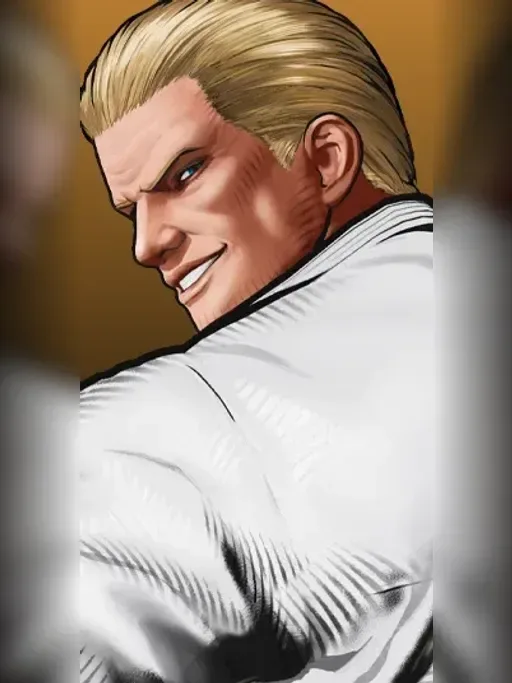
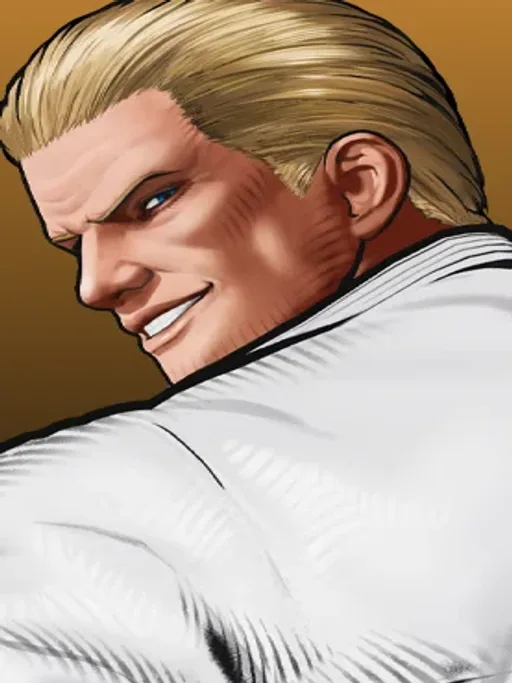
Fill the roster tile by stretching, not by banding it
The mirrored blur bands read as a smear at any width that bought real
content, so they are gone. The extra tile is now absorbed by stretching
the crop to the full width instead.

Showing more than 3:4 of a 277x721 source in a hard 3:4 box leaves only
two options: add width, or absorb it. Both were built. Bands lost on
looks and on arithmetic — at GRID_ZOOM 1.45 the banded artwork occupied
just 69% of the tile's width, so the fighter rendered SMALLER than they
now do stretched at 1.25, while also carrying two blurred edges. Plain
edge replication (no mirror) turns every row into a horizontal streak,
and an anamorphic split with the centre held 1:1 visibly warps the
outer fifths.

The stretch has one clean property worth knowing: the crop is
(w / 0.75) * GRID_ZOOM rows tall, so the subject is exactly
OUT_W / GRID_ZOOM wide before the stretch, which makes the horizontal
stretch factor exactly GRID_ZOOM. One dial buys chest and costs face
shape at the same rate. 1.25 keeps faces reading as faces without a
side-by-side reference; the artwork's own ceiling is still 1.58.

Portraits stay 512x683 and the hero is untouched. e2e 40/40,
verify:gates 30/30.

diff --git a/scripts/art.ts b/scripts/art.ts
@@ -150,11 +150,13 @@ const finish = async (out: string, webp: Buffer, extra: Omit<Written, 'bytes' | 
  * reasoning is written out rather than assumed.
  */
 
-/** Extra tile beyond a bare 3:4, as a multiple. 3:4 of SNK's 277-wide roster
- *  tile is its top 369 rows, which on most of the roster is a face close-up;
- *  1.25 takes 461 rows and reaches the chest. The rows past 3:4 are filled by
- *  the blurred backdrop below rather than by cropping tighter. */
-const GRID_ZOOM = 1.45;
+/** Extra tile beyond a bare 3:4, as a multiple — AND, because of the geometry
+ *  in savePortrait below, the horizontal stretch factor. 3:4 of SNK's 277-wide
+ *  roster tile is its top 369 rows, which on most of the roster is a face
+ *  close-up; 1.25 takes 461 rows and reaches the chest at 25% horizontal
+ *  stretch. Raising it buys chest and costs face shape at exactly the same
+ *  rate. Hard ceiling 1.58, set by where the artwork itself ends. */
+const GRID_ZOOM = 1.25;
 
 /** The desktop hero box, 1440×340. The splash canvas is exactly 2× it, so the
  *  ratio matches to the digit and `object-cover` crops NOTHING at desktop —
@@ -273,28 +275,31 @@ async function opaqueBox(
 }
 
 /**
- * THE PORTRAIT IS A 3:4 TILE THAT SHOWS MORE THAN 3:4 OF THE SOURCE.
+ * THE PORTRAIT SHOWS MORE THAN 3:4 OF THE SOURCE, AND ABSORBS IT BY STRETCHING.
  *
  * SNK's roster tiles are 277×721 (ratio 0.384). A bare top-anchored 3:4 crop is
  * their top 369 rows, and on most of the roster that is a face close-up —
- * correct framing, too tight. Taking 461 rows instead reaches the chest, but a
- * 277×461 crop is 0.60, not 0.75, so the sides have to be filled.
+ * correctly framed, too tight. Showing more rows means the crop is no longer
+ * 3:4, and the engine's tile is a hard `aspect-[3/4] object-cover` box with no
+ * object-position and no config, so the extra has to go somewhere.
  *
- * The fill is a MIRROR of the subject's own outer edge, blurred, fading into
- * the page background. Mirroring is what makes it seamless: the band's inner
- * pixel column IS the subject's edge column, so the two meet exactly, and the
- * darkening ramp starts at zero there so the brightness matches too. The blur
- * then removes any readable doubled anatomy, leaving a soft vignette.
+ * There are only two places it can go: ADD WIDTH (bands down each side) or
+ * ABSORB IT (stretch horizontally). Bands were built first — mirrored from the
+ * subject's own edge, blurred, faded — and rejected on sight: at any width that
+ * buys real content they read as a smear, and they cost the subject the tile.
+ * At GRID_ZOOM 1.45 the banded artwork occupied only 69% of the tile's width,
+ * so the fighter actually rendered SMALLER than they do stretched at 1.25.
+ * Plain edge replication (no mirror) was also tried and is worse — every row
+ * becomes a horizontal streak. An anamorphic split, centre 1:1 with the outer
+ * fifths absorbing the stretch, visibly warps the edges.
  *
- * A cover-scaled blur of the whole tile was tried first and is WRONG — cover
- * rescales the image, so the band and the subject no longer share a scale and
- * the seam reads as a smear. Sampling a solid background colour is also wrong
- * here: measured, the tile edges are neither flat nor consistent (per-column
- * σ 25–87 across the roster), because on a bust crop the fighter's own
- * shoulders reach the frame.
- *
- * The backdrop is flattened onto the page background first: the tiles carry
- * 10–16% transparent pixels, and holes in a roster tile read as damage.
+ * So the subject is stretched to the full tile width, and the arithmetic is
+ * unusually clean: the crop is `(w / 0.75) × GRID_ZOOM` rows tall, so the
+ * subject before stretching is exactly `OUT_W / GRID_ZOOM` wide, and
+ * **the horizontal stretch factor IS GRID_ZOOM**. One dial sets both how much
+ * extra tile you see and how wide the faces get. 1.25 keeps the distortion
+ * where a face reads as a face without a side-by-side reference; the ceiling
+ * imposed by the artwork itself (see contentBottom) is 1.58.
  *
  * Output stays 512×683 — the platform's portrait size, matching SF6 and Tōkon,
  * so all five grids read as one set. The 277px source is the resolution ceiling.
@@ -317,50 +322,16 @@ async function savePortrait(url: string, out: string): Promise<Written> {
     );
   }
 
-  const crop = await sharp(buf).extract({ left: 0, top: 0, width: w, height: rows }).toBuffer();
-
   const OUT_W = 512;
   const OUT_H = Math.round(OUT_W / 0.75);
-  const subjectW = Math.round((OUT_H * w) / rows);
-  const band = Math.round((OUT_W - subjectW) / 2);
 
-  // Flattened before anything else: the blur below would otherwise pull the
-  // tile's transparent regions into the visible ones as a grey halo.
-  const subject = await sharp(crop)
-    .resize(subjectW, OUT_H, { fit: 'fill' })
+  // `fit: 'fill'` is the stretch, and it is deliberate — not a forgotten
+  // `cover`. Flattened because the tiles carry 10–16% transparent pixels and a
+  // hole in a roster tile reads as damage.
+  const webp = await sharp(buf)
+    .extract({ left: 0, top: 0, width: w, height: rows })
+    .resize(OUT_W, OUT_H, { fit: 'fill' })
     .flatten({ background: '#0f0d0b' })
-    .toBuffer();
-
-  // `flop` puts the subject's own edge column against the seam, so the band
-  // meets the artwork exactly; the ramp fades it out towards the tile edge.
-  const edge = async (fromLeft: boolean): Promise<Buffer> =>
-    sharp(
-      await sharp(subject)
-        .extract({ left: fromLeft ? 0 : subjectW - band, top: 0, width: band, height: OUT_H })
-        .flop()
-        .blur(14)
-        .toBuffer(),
-    )
-      .composite([
-        {
-          input: Buffer.from(
-            `<svg width="${band}" height="${OUT_H}"><defs><linearGradient id="g" x1="${fromLeft ? 0 : 1}" x2="${fromLeft ? 1 : 0}">` +
-              `<stop offset="0" stop-color="#0f0d0b" stop-opacity=".72"/>` +
-              `<stop offset="1" stop-color="#0f0d0b" stop-opacity="0"/>` +
-              `</linearGradient></defs><rect width="${band}" height="${OUT_H}" fill="url(#g)"/></svg>`,
-          ),
-        },
-      ])
-      .toBuffer();
-
-  const webp = await sharp({
-    create: { width: OUT_W, height: OUT_H, channels: 3, background: '#0f0d0b' },
-  })
-    .composite([
-      { input: await edge(true), left: 0, top: 0 },
-      { input: await edge(false), left: band + subjectW, top: 0 },
-      { input: subject, left: band, top: 0 },
-    ])
     .webp({ quality: 82 })
     .toBuffer();
 
@@ -369,10 +340,8 @@ async function savePortrait(url: string, out: string): Promise<Written> {
     source: url,
     sourceDimensions: `${w}×${h}`,
     dimensions: `${out2.width}×${out2.height}`,
-    crop:
-      `top ${rows} of ${h} rows (${(GRID_ZOOM * 100 - 100).toFixed(0)}% past 3:4), ` +
-      `mirror-extended to 3:4; artwork ends at row ${floor}`,
-    figure: `subject ${subjectW}×${OUT_H} centred in ${OUT_W}×${OUT_H}, ${band}px bands`,
+    crop: `top ${rows} of ${h} rows; artwork ends at row ${floor}`,
+    figure: `stretched ${GRID_ZOOM}× horizontally to fill 3:4`,
   });
 }
 
